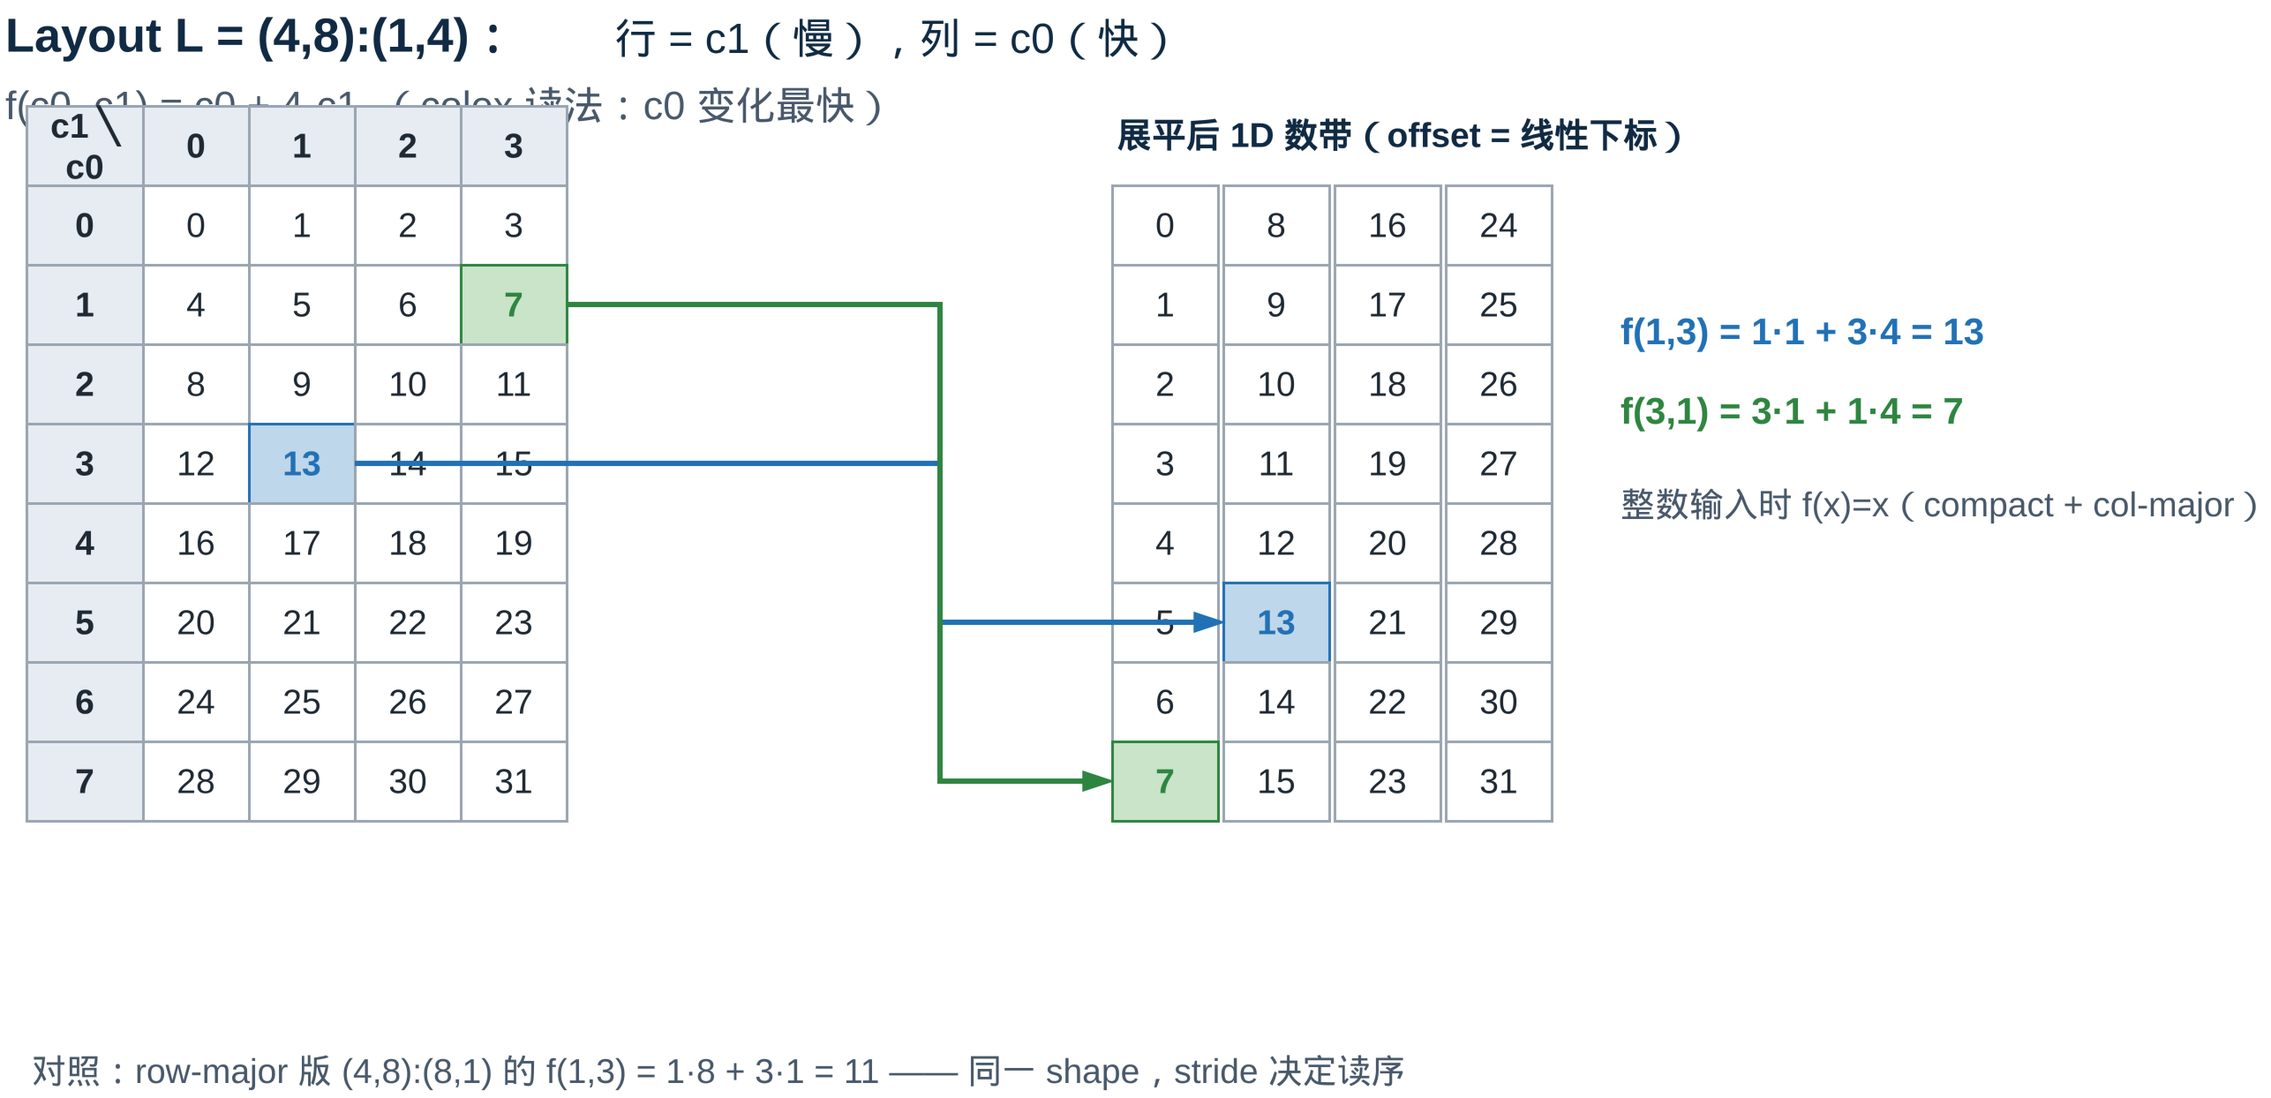
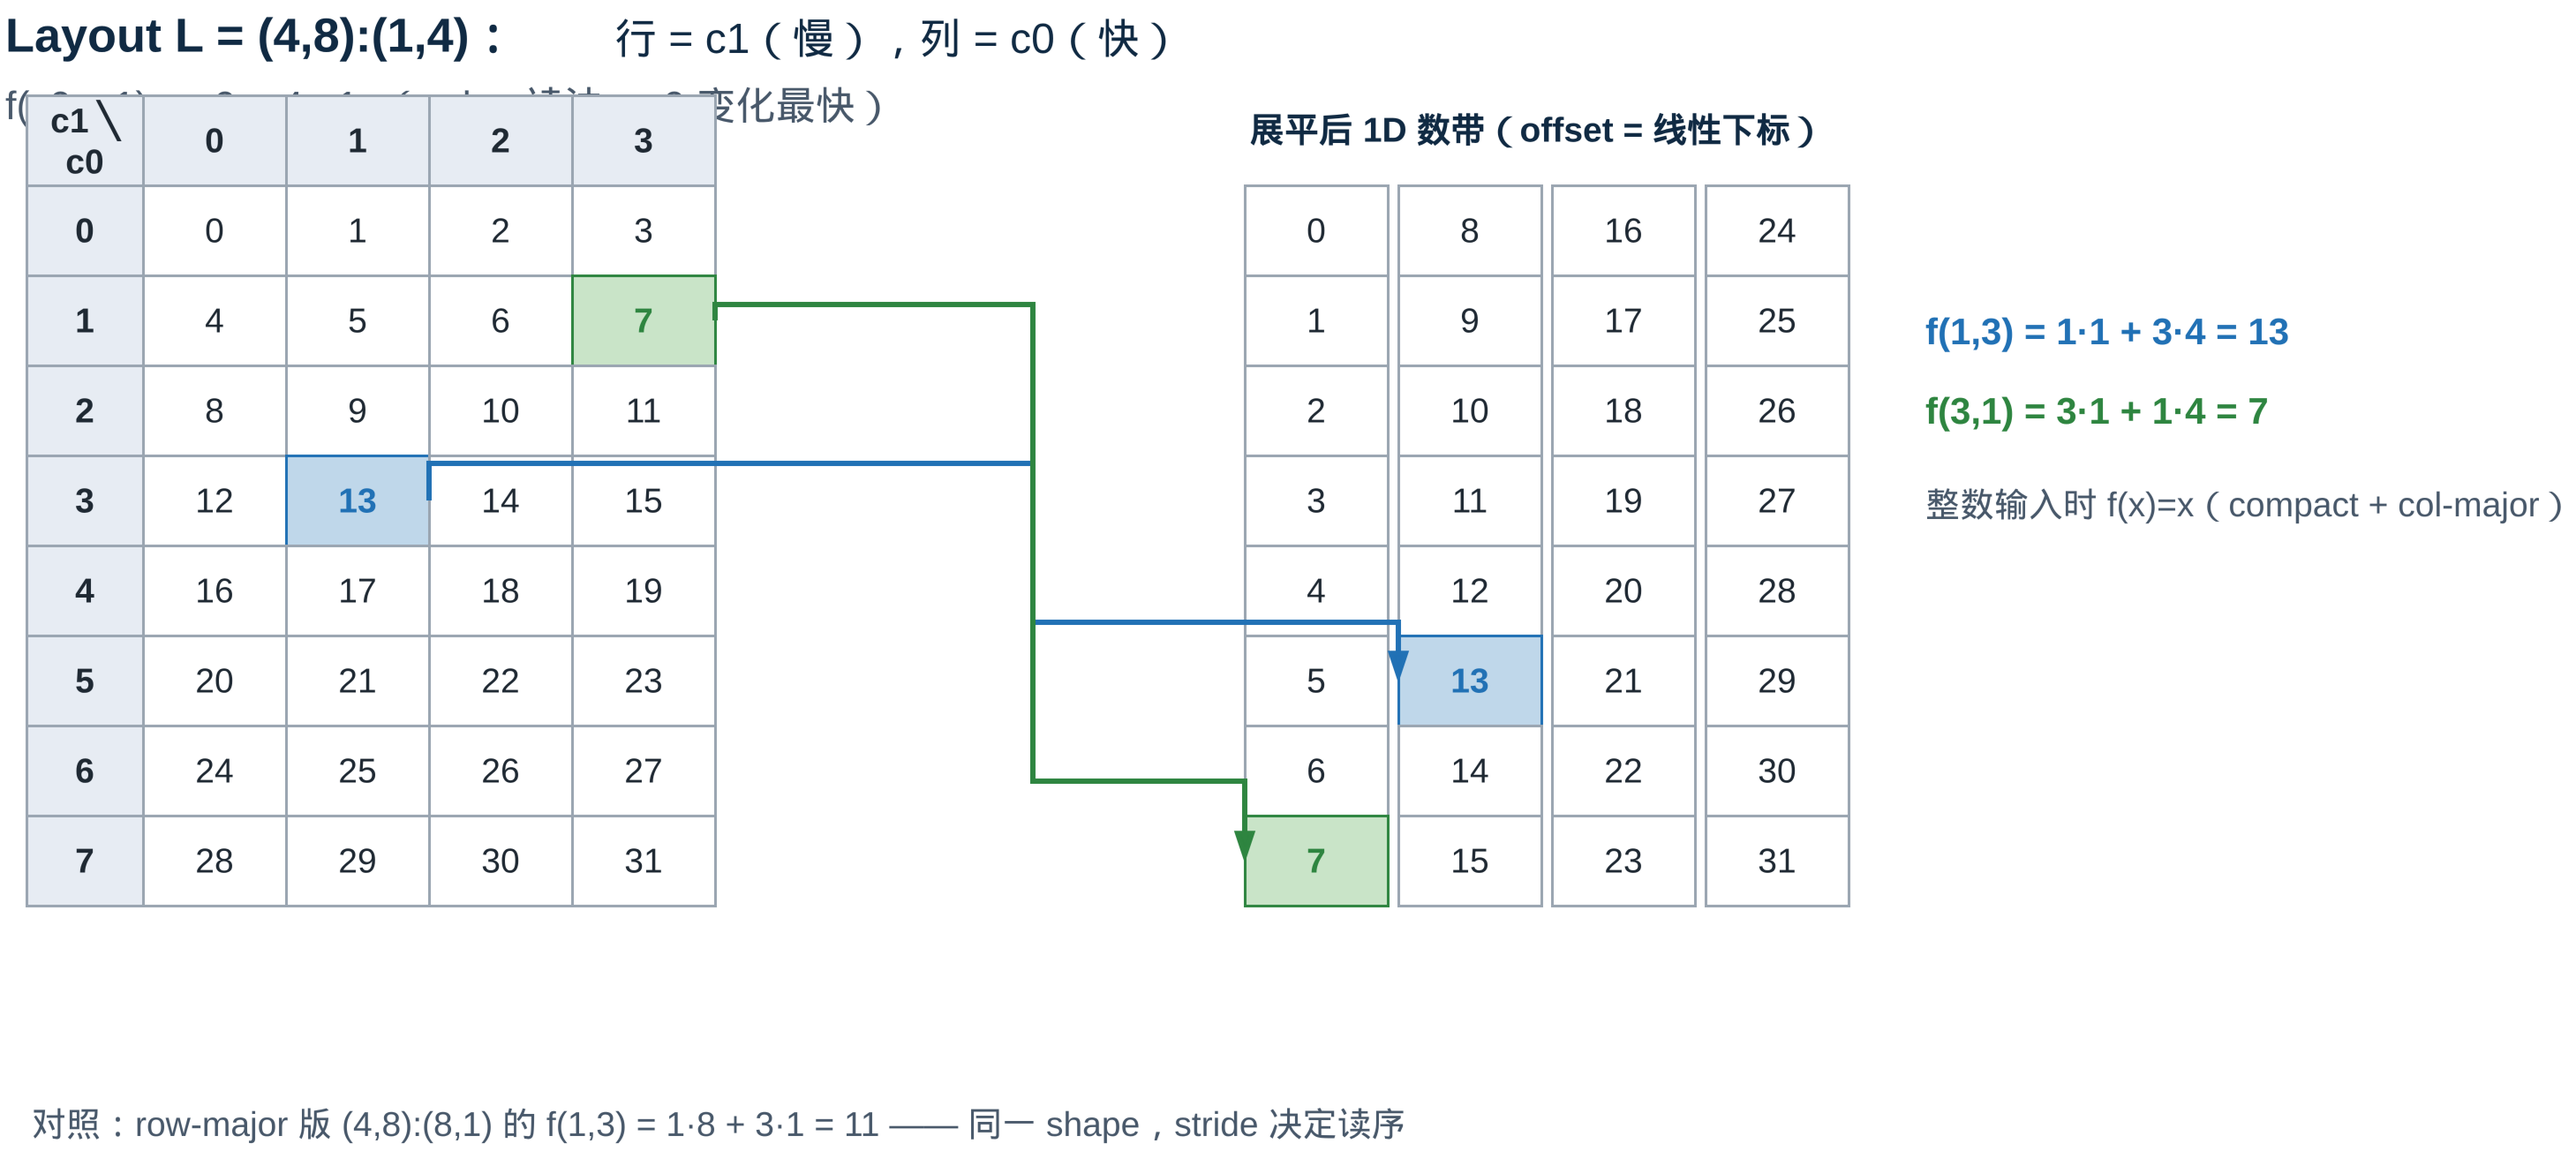
fix(book): 图示全局代码块化 + drawio 图放大重制
- 全书 39 处 verbatim（ASCII 占位图/骨架图）统一转 lstlisting[style=console]
  ——落实用户规范：所有图要么 png 要么代码块，禁止裸 verbatim 文本
- fig-20-1/fig-22-1 放大重制：数带格子 40->54px、n 原子块 78->94px，
  修 PDF 缩放后数字与格线粘连（用户反馈：文字被网格覆盖）
- 全书 341 页 0 错误（lualatex），27 章锚点 ALL GREEN

Changed region(s): [[0.0, 0.0, 0.4975, 0.7942], [0.4042, 0.0916, 0.9949, 0.7942], [0.0, 0.9469, 0.6218, 1.0]]

diff --git a/kernels/interview/book/chapters/ch13-hopper-tma-wgmma.tex b/kernels/interview/book/chapters/ch13-hopper-tma-wgmma.tex
@@ -396,7 +396,7 @@ $m$ 个 $64 \times B\sb{K}$ 子块，K-step 每次前进 \texttt{kWgmmaK=16} 个
 
 \begin{figure}[htbp]
 \centering
-\begin{verbatim}
+\begin{lstlisting}[style=console]
   FIG-13-1  WGMMA smem descriptor: 64-bit bit-field layout
             enc(x) = (x & 0x3FFFF) >> 4   (18-bit window, 16B-aligned)
 
@@ -410,7 +410,7 @@ $m$ 个 $64 \times B\sb{K}$ 子块，K-step 每次前进 \texttt{kWgmmaK=16} 个
    0=none 1=128B (addr>>7)&7     stripe         (unused=1     base addr
    2=64B  3=32B  1024B bndy=0     gap(bytes)     in K-major    (absolute
                              K-major swizzle              smem offset)
-\end{verbatim}
+\end{lstlisting}
 \caption{WGMMA smem descriptor 的 64-bit 位域（对照 common.cuh L532-565 注释与
 PTX ISA §9.7.15.5.1.2.2 逐字段核校；u = unused；数值列为本章 kernel
 $B\sb{K}=64$ half + 128B swizzle 的取值）。
@@ -419,7 +419,7 @@ $B\sb{K}=64$ half + 128B swizzle 的取值）。
 
 \begin{figure}[htbp]
 \centering
-\begin{verbatim}
+\begin{lstlisting}[style=console]
   FIG-13-2  Warp specialization data flow (kStages = 3)
 
    HBM (global)              smem (per CTA)               C (global)
@@ -440,7 +440,7 @@ $B\sb{K}=64$ half + 128B swizzle 的取值）。
                                           C2 8x wgmma m64n128k16
                                           C3 commit+wait(0)
                                           C4 arrive(empty[s])
-\end{verbatim}
+\end{lstlisting}
 \caption{producer/consumer 双 warpgroup 数据流：TMA 单线程提交搬运，WGMMA 全
 warpgroup 计算，\texttt{full[]}/\texttt{empty[]} 双屏障阵列按 stage 解耦两支执行流，
 kStages=3 使计算与搬运最多重叠 2 个 tile。
@@ -449,7 +449,7 @@ kStages=3 使计算与搬运最多重叠 2 个 tile。
 
 \begin{figure}[htbp]
 \centering
-\begin{verbatim}
+\begin{lstlisting}[style=console]
   FIG-13-3  mbarrier state machine (per barrier object, e.g. full[s])
 
       init(bar, 129)                        phase = p
@@ -475,7 +475,7 @@ kStages=3 使计算与搬运最多重叠 2 个 tile。
    empty[s]: 128 consumer arrives (C4 / C0 warmup) + 1 producer arrive (P1)
               =>  flip  =>  producer overwrites stage
   note: complete-tx (dC) automatic -- T -= dC when TMA bytes hit smem
-\end{verbatim}
+\end{lstlisting}
 \caption{mbarrier 状态机：arrive 与 tx 两把独立的「锁」同时归零才翻转相位；
 翻转瞬间原子地重置 pending 为 expected。下半部分给出本章 kernel 中
 \texttt{full[s]} 与 \texttt{empty[s]} 各自的翻转条件。

diff --git a/kernels/interview/book/chapters/ch01-arch-roofline.tex b/kernels/interview/book/chapters/ch01-arch-roofline.tex
@@ -91,7 +91,7 @@ base.cuh L16--21 给出了 H100 参考下的带宽数量级：HBM3 约 3.35 TB/s
 
 \begin{figure}[htbp]
 \centering
-\begin{verbatim}
+\begin{lstlisting}[style=console]
         速率/容量金字塔（H100 数量级参考, base.cuh L16-21）
         -------------------------------------------------------------
           ^        Register      ~100+ TB/s   256 KB/SM   (thread)
@@ -101,7 +101,7 @@ base.cuh L16--21 给出了 H100 参考下的带宽数量级：HBM3 约 3.35 TB/s
           +
           ----------------------> 离 SM 越远：带宽越低、容量越大
         -------------------------------------------------------------
-\end{verbatim}
+\end{lstlisting}
 \caption{GPU 内存层级金字塔}
 \label{fig:1-1}
 \end{figure}
@@ -197,7 +197,7 @@ compute-bound。
 
 \begin{figure}[htbp]
 \centering
-\begin{verbatim}
+\begin{lstlisting}[style=console]
    性能 P (TFLOPS)
    ^                  compute-bound: P = P-peak
    |                  +---------------------------+
@@ -215,7 +215,7 @@ compute-bound。
        -> AI* ~ 295 FLOP/Byte    (GEMM K=4096: AI=683 > 295, compute-bound)
      FP32 CUDA core: P-peak ~ 67 TFLOPS
        -> AI* ~ 20 FLOP/Byte     (softmax AI=0.625 << 20, 严重 memory-bound)
-\end{verbatim}
+\end{lstlisting}
 \caption{Roofline 模型示意}
 \label{fig:1-2}
 \end{figure}
@@ -271,7 +271,7 @@ RFC-H 升级为正式图（FIG-1-1、FIG-1-2）。这里补充一张「一次 HB
 
 \begin{figure}[htbp]
 \centering
-\begin{verbatim}
+\begin{lstlisting}[style=console]
    一次 float 读的完整旅程（约 0.5us 量级, H100 参考）
    -------------------------------------------------------------
    [LDG] warp 发射 load 指令
@@ -281,7 +281,7 @@ RFC-H 升级为正式图（FIG-1-1、FIG-1-2）。这里补充一张「一次 HB
           期间 warp 挂起, scheduler 切换到其他活跃 warp
           (occupancy 就是「可以切换的 warp 数量」)
    -------------------------------------------------------------
-\end{verbatim}
+\end{lstlisting}
 \caption{一次访存的旅程与延迟隐藏}
 \label{fig:1-3}
 \end{figure}

diff --git a/kernels/interview/book/chapters/ch15-attn-math.tex b/kernels/interview/book/chapters/ch15-attn-math.tex
@@ -564,7 +564,7 @@ layout 必须\textbf{同时}看读端（ldmatrix）与写端（cp.async），只
 
 \begin{figure}[htbp]
 \centering
-\begin{verbatim}
+\begin{lstlisting}[style=console]
  FIG-15-1  One Q-block's pass over all KV blocks (per thread block)
 
  state kept across the whole loop (registers):
@@ -584,7 +584,7 @@ layout 必须\textbf{同时}看读端（ldmatrix）与写端（cp.async），只
  after loop:  O <- O / l      (ONE final divide)      (8) epilogue
 
  The N x N matrix S never exists: only [Br x Bc] tiles live in R_S.
-\end{verbatim}
+\end{lstlisting}
 \caption{Attention 分块计算：单个 Q 块（$B_r$ 行）流式扫过全部 $T_c$ 个 KV 块
 （$B_c \times d$），每块依次执行 $S^{[j]} \to P^{[j]} \to P^{[j]}V^{[j]}$，并把
 $(m, \ell, O)$ 三状态按式~\ref{eq:15-upd-m}--\ref{eq:15-upd-o} 联动更新，循环结束后
@@ -594,7 +594,7 @@ $(m, \ell, O)$ 三状态按式~\ref{eq:15-upd-m}--\ref{eq:15-upd-o} 联动更新
 
 \begin{figure}[htbp]
 \centering
-\begin{verbatim}
+\begin{lstlisting}[style=console]
  FIG-15-2  FA1 -> FA2 -> FA3: where the time goes (schematic)
 
  FA1 (A100)  warps split along K/V; softmax sits BETWEEN the two GEMMs
@@ -613,7 +613,7 @@ $(m, \ell, O)$ 三状态按式~\ref{eq:15-upd-m}--\ref{eq:15-upd-o} 联动更新
              WG2    | softmax | softmax | ...      (CUDA cores)   overlap
              pingpong: while WG1 runs GEMMs, WG2 runs softmax (and vice
              versa); + FP8 GEMM (block scaling + incoherent processing)
-\end{verbatim}
+\end{lstlisting}
 \caption{三代 FlashAttention 的时间结构：FA1 的 softmax 串行夹在两次 GEMM 之间且
 warp 间需要归约；FA2 靠 warp 级 split-Q 消灭归约、靠 seqlen(Q) 维并行喂饱 SM、靠
 未归一化 $O$ 砍掉逐块对角修正；FA3 用 warp specialization + pingpong 让 softmax

diff --git a/kernels/interview/book/chapters/ch19-ffpa-split-d.tex b/kernels/interview/book/chapters/ch19-ffpa-split-d.tex
@@ -606,7 +606,7 @@ $\times$ 2 个 N-warp，$R_O$ 降到 $D/4$）的原因，也是本章这版 kern
 
 \begin{figure}[htbp]
 \centering
-\begin{verbatim}
+\begin{lstlisting}[style=console]
   FIG-19-1  Split-D: D-dim chunking (D = 512 -> C = 8 chunks of 64)
 
   Q [Br=64, D=512]           K [Bc=64, D=512]          V [Bc=64, D=512]
@@ -634,7 +634,7 @@ $\times$ 2 个 N-warp，$R_O$ 降到 $D/4$）的原因，也是本章这版 kern
   pipeline slots (TMA version, Sk = Sv = 2):
      idx = kv_tile * C + c ;  stage = idx % Sk ;  phase = (idx / Sk) & 1
      D=128 (C=2): phase period 1 kv_tile | D=192 (C=3): period 2 (gcd(C,Sk)=1)
-\end{verbatim}
+\end{lstlisting}
 \caption{Split-D 的 D 维切分：Q/K/V 各切成 $C = D/64$ 个 64 宽 chunk（一个 chunk
 等于一个 SW128 swizzle atom 宽）。QK 的 chunk 累加写进同一块 $S[64,64]$；PV 的每个
 chunk 写进自己的 $O_c[64,64]$，共用同一个 $\rho$ 与 $\ell$；流水槽位由扁平计数器
@@ -644,7 +644,7 @@ $\mathrm{idx}$ 导出。（占位，RFC-H 升级为 drawio 图）}
 
 \begin{figure}[htbp]
 \centering
-\begin{verbatim}
+\begin{lstlisting}[style=console]
   FIG-19-2  Two-stage merge across D chunks
 
   stage 1: exact reduction inside ONE dot product  (QK^T, no weights)
@@ -667,7 +667,7 @@ $\mathrm{idx}$ 导出。（占位，RFC-H 升级为 drawio 图）}
 
   contrast - split-KV (ch18) needs a SECOND max: a=exp(m_0-m), b=exp(m_1-m)
   contrast - split-D     has NO second max:    rho is shared by construction
-\end{verbatim}
+\end{lstlisting}
 \caption{跨 chunk 的两阶段合并。第一阶段：QK${}^\top$ 的 chunk 求和是同一
 点积内部加数的分组，\textbf{精确且无需权重}；第二阶段：$PV$ 的每个 chunk 各持一个
 输出列段累加器，跨 KV tile 的在线 rescale 因子 $\rho_t$ \textbf{必须广播到全部

diff --git a/kernels/interview/book/chapters/ch11-hgemm-mma.tex b/kernels/interview/book/chapters/ch11-hgemm-mma.tex
@@ -101,7 +101,7 @@ C 的 $16\times8$——每个 lane 持多少、在矩阵的什么位置，就是
 
 \begin{figure}[htbp]
 \centering
-\begin{verbatim}
+\begin{lstlisting}[style=console]
   FIG-11-2a  A fragment (m16 x k16, row-major), g = lane>>2, tig = lane%4
 
         k: 0  1  2  3  4  5  6  7   8  9 10 11 12 13 14 15
@@ -117,7 +117,7 @@ C 的 $16\times8$——每个 lane 持多少、在矩阵的什么位置，就是
   R1 = {a2,a3}: row=g+8, cols (2*tig,2*tig+1) R3 = {a6,a7}: row=g+8, cols+8
   quadrant order expected by mma: R0=upper-left, R1=lower-left,
                                   R2=upper-right, R3=lower-right
-\end{verbatim}
+\end{lstlisting}
 \caption{A fragment 寄存器布局（依据 PTX ISA Figure 79 的行/列公式绘制；
 T$n$ 表示 lane $n$ 持有该元素，每格 2 个相邻 f16 装一条 \texttt{.b32}）。
 （占位，RFC-H 升级）}\label{fig:11-2a}
@@ -206,7 +206,7 @@ lane $4r + \mathrm{tig}$ 的寄存器 $r\sb i$ 的 $\mathrm{tig}$ 列对——
 
 \begin{figure}[htbp]
 \centering
-\begin{verbatim}
+\begin{lstlisting}[style=console]
   FIG-11-1  ldmatrix addressing in hgemm-mma-stages-tn (A: x4, B: x2)
 
   A m16k16 tile -> four 8x8 matrices, one address per lane (x4):
@@ -224,7 +224,7 @@ lane $4r + \mathrm{tig}$ 的寄存器 $r\sb i$ 的 $\mathrm{tig}$ 列对——
          t= 0.. 7 -> matrix0 (n 0..7, k 0..7) -> RB[j][0]  (upper k half)
          t= 8..15 -> matrix1 (n 0..7, k 8..15) -> RB[j][1] (lower k half)
     loading rows of B^T == loading cols of B, no .trans needed
-\end{verbatim}
+\end{lstlisting}
 \caption{本章 kernel 的 \texttt{ldmatrix} 寻址映射：A 用 x4 一次装载
 $m16\times k16$ 的四象限；B 用 x2 装载 $k16\times n8$（借 $B^{\top}$ 行主序
 存储）。（占位，RFC-H 升级）}\label{fig:11-1}

diff --git a/kernels/interview/book/chapters/ch03-vectorize-atomic.tex b/kernels/interview/book/chapters/ch03-vectorize-atomic.tex
@@ -71,7 +71,7 @@ sector 数。三种典型情形（图 ch03-1）：
 
 \begin{figure}[htbp]
 \centering
-\begin{verbatim}
+\begin{lstlisting}[style=console]
    一条 warp 访存指令的合并过程 (fp32, 每格 4B, 一个 sector 8 格)
    -------------------------------------------------------------
    coalesced:  lane0..31 访问连续 128B
@@ -82,7 +82,7 @@ sector 数。三种典型情形（图 ch03-1）：
      [x.......][x.......]... x32              S=32, 有效率 3%
    -------------------------------------------------------------
    事务粒度 = 32B sector; 无用字节照样从 HBM 搬上来
-\end{verbatim}
+\end{lstlisting}
 \caption{coalescing 与非合并访存对比}
 \label{fig:3-1}
 \end{figure}
@@ -195,7 +195,7 @@ vec4 版的守卫值得逐行读：主路径 \texttt{(idx + 3) < N} 一次性保
 
 \begin{figure}[htbp]
 \centering
-\begin{verbatim}
+\begin{lstlisting}[style=console]
    elementwise kernel: 从朴素到峰值带宽
    -------------------------------------------------------------
    朴素(stride 访存)     需要搬运 8x 数据      有效性 3%~12%
@@ -206,7 +206,7 @@ vec4 版的守卫值得逐行读：主路径 \texttt{(idx + 3) < N} 一次性保
      -> + privatize      原子冲突域: 全局 -> smem
         (histogram 专用: block 内 smem 直方图 + 少量全局合并)
    -------------------------------------------------------------
-\end{verbatim}
+\end{lstlisting}
 \caption{逐元素算子的三级优化路线}
 \label{fig:3-2}
 \end{figure}
